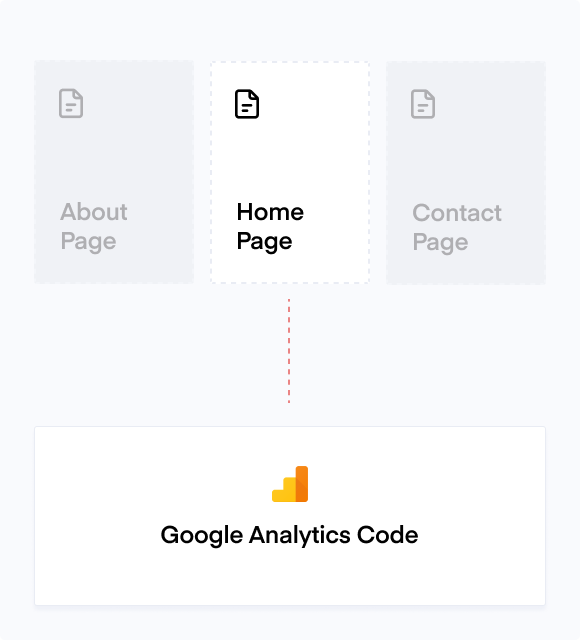
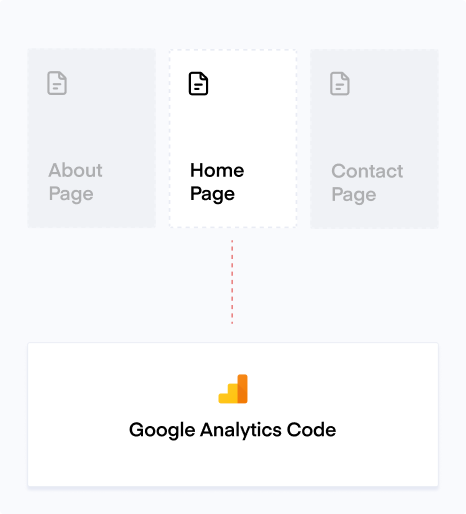
High-res feature images

diff --git a/pages/index.vue b/pages/index.vue
@@ -36,7 +36,7 @@
 				</div>
 				<div class="feature-section text-center lg:text-left grid grid-cols-1 lg:grid-cols-2 gap-10 lg:gap-20 my-14 lg:my-20">
 					<div class="order-1 md:order-1">
-						<img v-lazy-load class="md:w-full" data-src="/feature-2.png" alt="CodeKit's supported code placements" />
+						<img v-lazy-load class="md:w-full" data-src="/feature-2.png" data-srcset="/feature-2.png 1x, /feature-2@2x.png 2x" alt="CodeKit's supported code placements" />
 					</div>
 					<div class="align-center items-center flex order-2 md:order-1">
 						<div class="flex-1">
@@ -75,7 +75,7 @@
 						</div>
 					</div>
 					<div class="order-1 md:order-2">
-						<img v-lazy-load class="md:w-full" data-src="/feature-3.png" alt="CodeKit's supported code include" />
+						<img v-lazy-load class="md:w-full" data-src="/feature-3.png" data-srcset="/feature-3.png 1x, /feature-3@2x.png 2x" alt="CodeKit's supported code include" />
 					</div>
 				</div>
 			</div>
